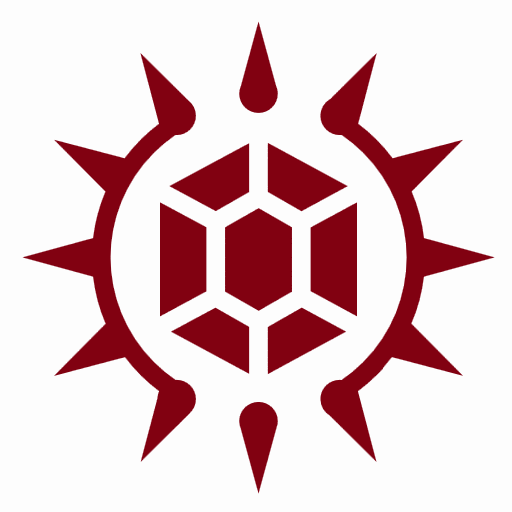
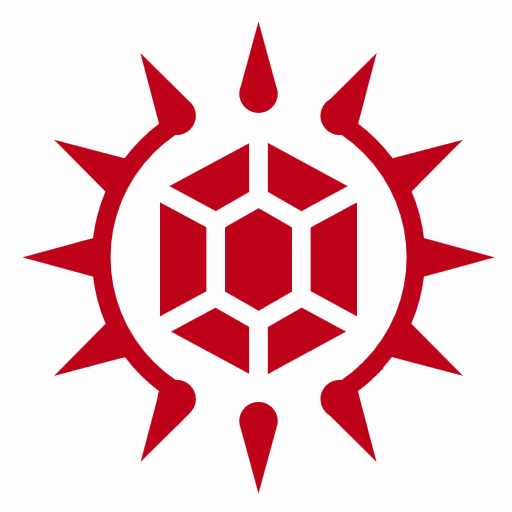
safelight wip

diff --git a/src/components/keywords/Safelight/Safelight.tsx b/src/components/keywords/Safelight/Safelight.tsx
@@ -1,47 +1,21 @@
 import './Safelight.css';
+import chipImg from '../../../assets/safelight/chips.png';
+import shardImg from '../../../assets/safelight/shard.png';
+import gemstoneImg from '../../../assets/safelight/gemstone.png';
+import geodeImg from '../../../assets/safelight/geode.png';
+import clusterImg from '../../../assets/safelight/cluster.png';
+import { FontAwesomeIcon } from '@fortawesome/react-fontawesome';
+import { faGem } from '@fortawesome/free-solid-svg-icons';
 
-type GlyphPart = { d: string; mode: 'fill' | 'stroke' };
-
-/* One gem per tier, drawn in a -10..10 box and rendered as clean line-art.
-   They grow larger and more ornate up the scale: a bare sliver, a single
-   crystal, a cut gem, a gem cracked out of its rocky geode, then a whole
-   cluster of spires. Per-tier render sizes live in Safelight.css. */
-const GEM_GLYPHS: Record<number, GlyphPart[]> = {
-  // a bare little sliver
-  0: [
-    { d: 'M 0 -4 L 3 0.5 L 0 5 L -3 0.5 Z', mode: 'stroke' },
-    { d: 'M -3 0.5 L 3 0.5', mode: 'stroke' },
-  ],
-  // a single six-sided crystal with a center ridge
-  1: [
-    { d: 'M 0 -7.5 L 3 -2 L 3 4 L 0 7 L -3 4 L -3 -2 Z', mode: 'stroke' },
-    { d: 'M -3 -2 L 3 -2', mode: 'stroke' },
-    { d: 'M 0 -7.5 L 0 7', mode: 'stroke' },
-  ],
-  // a cut gem: table, girdle and pavilion facets
-  2: [
-    { d: 'M -5 -6 L 5 -6 L 8 -1.5 L 0 8 L -8 -1.5 Z', mode: 'stroke' },
-    { d: 'M -8 -1.5 L 8 -1.5', mode: 'stroke' },
-    { d: 'M -5 -6 L -3 -1.5', mode: 'stroke' },
-    { d: 'M 5 -6 L 3 -1.5', mode: 'stroke' },
-    { d: 'M -3 -1.5 L 0 8', mode: 'stroke' },
-    { d: 'M 3 -1.5 L 0 8', mode: 'stroke' },
-  ],
-  // a gem nested inside its cracked-open rocky shell
-  3: [
-    { d: 'M 0 -8.5 C 5.5 -8.5 9 -4 8.5 1 C 8 6.5 3.5 9 0 8.5 C -3.5 9 -8 6.5 -8.5 1 C -9 -4 -5.5 -8.5 0 -8.5 Z', mode: 'stroke' },
-    { d: 'M -3.6 -2.5 L 3.6 -2.5 L 5 0.3 L 0 5.2 L -5 0.3 Z', mode: 'stroke' },
-    { d: 'M -5 0.3 L 5 0.3', mode: 'stroke' },
-    { d: 'M 0 -2.5 L 0 5.2', mode: 'stroke' },
-  ],
-  // three crystal spires rising together from a shared base
-  4: [
-    { d: 'M 0 -9 L 2.4 -3 L 1.5 6.5 L -1.5 6.5 L -2.4 -3 Z', mode: 'stroke' },
-    { d: 'M 0 -9 L 0 6.5', mode: 'stroke' },
-    { d: 'M -5 -2 L -3.3 1 L -3.8 6.5 L -6.6 6.5 L -7 1 Z', mode: 'stroke' },
-    { d: 'M 5 -2 L 7 1 L 6.6 6.5 L 3.8 6.5 L 3.3 1 Z', mode: 'stroke' },
-  ],
-};
+/* The five graded forms of Safelight, smallest to largest. Each carries its
+   own gem image; per-tier render sizes live in Safelight.css. */
+const SAFELIGHT_TIERS = [
+  { name: 'Chip', img: chipImg },
+  { name: 'Shard', img: shardImg },
+  { name: 'Gemstone', img: gemstoneImg },
+  { name: 'Geode', img: geodeImg },
+  { name: 'Cluster', img: clusterImg },
+];
 
 type Props = {
   tier?: number;
@@ -49,26 +23,13 @@ type Props = {
   plural?: boolean;
 };
 
-export default function Safelight({ tier, plural }: Props) {
-  if (tier === undefined) {
-    tier = 1;
-  };
-  const glyph = GEM_GLYPHS[tier];
-  const safelightName = [
-    'Chips',
-    'Shard',
-    'Gemstone',
-    'Geode',
-    'Cluster',
-  ];
+export default function Safelight({ tier = 1, plural }: Props) {
+  const { name, img } = SAFELIGHT_TIERS[tier];
   return (
-    <span className={`safelight-keyword safelight-${safelightName[tier].toLowerCase()}`}>
-      <svg className="safelight-glyph" viewBox="-10 -10 20 20" aria-hidden="true">
-        {glyph.map((part, i) => (
-          <path key={`part-${i}`} className={`glyph-${part.mode}`} d={part.d} />
-        ))}
-      </svg>
-      <span className="safelight-label">Safelight {safelightName[tier]}{plural ? 's' : ''}</span>
+    <span className={`safelight-keyword safelight-${name.toLowerCase()}`}>
+      <FontAwesomeIcon icon={faGem} className="safelight-icon" />
+      <img className="safelight-glyph" src={img} alt="" aria-hidden="true" />
+      <span className="safelight-label">Safelight {name}{plural ? 's' : ''}</span>
     </span>
   );
 }

diff --git a/src/components/keywords/Safelight/Safelight.css b/src/components/keywords/Safelight/Safelight.css
@@ -3,7 +3,10 @@
    toward a cool arcane tint. Each tier gets its own gem, sized up the scale.
    Flows inline with prose and never breaks across lines. */
 .safelight-keyword {
-  --safelight-accent: light-dark(hsl(195 20% 30%), hsl(195 16% 70%));
+  --safelight-accent: light-dark(
+    hsl(195 20% 30%), 
+    hsl(195 16% 70%)
+  );
   white-space: nowrap;
   font-weight: 500;
   color: var(--safelight-accent);
@@ -15,10 +18,22 @@
     margin-right: 0.18em;
   }
 
+  /* Starter Safelight red — tune these two values to taste. Light gets a
+     deeper crimson to hold up on a pale background; dark gets a brighter,
+     lighter red so it doesn't sink into the page. */
+  .safelight-icon {
+    color: light-dark(
+      oklch(45% 0.18 20), 
+      oklch(45% 0.18 20)
+    );
+    margin-right: 0.18em;
+    vertical-align: -0.05em;
+  }
+
   /* Gems grow up the tier scale. */
-  &.safelight-chip     .safelight-glyph { height: 0.85em; }
-  &.safelight-shard    .safelight-glyph { height: 0.95em; }
-  &.safelight-gemstone .safelight-glyph { height: 1.05em; }
-  &.safelight-geode    .safelight-glyph { height: 1.15em; }
-  &.safelight-cluster  .safelight-glyph { height: 1.25em; }
+  &.safelight-chip     .safelight-glyph { height: 1.05em; }
+  &.safelight-shard    .safelight-glyph { height: 1.15em; }
+  &.safelight-gemstone .safelight-glyph { height: 1.25em; }
+  &.safelight-geode    .safelight-glyph { height: 1.35em; }
+  &.safelight-cluster  .safelight-glyph { height: 1.45em; }
 }